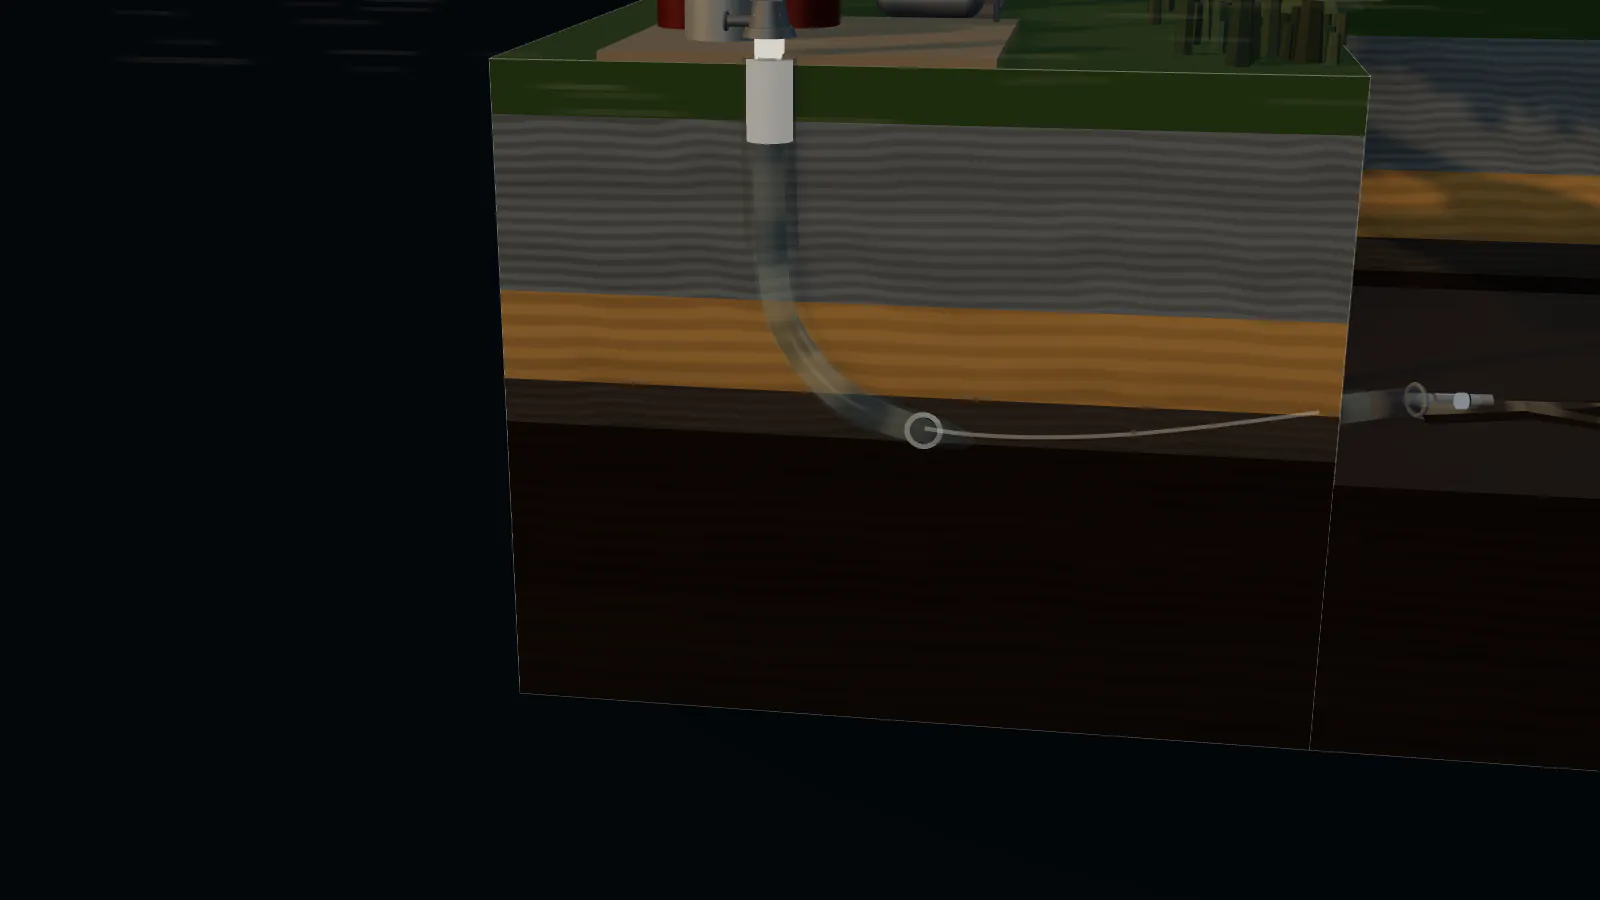
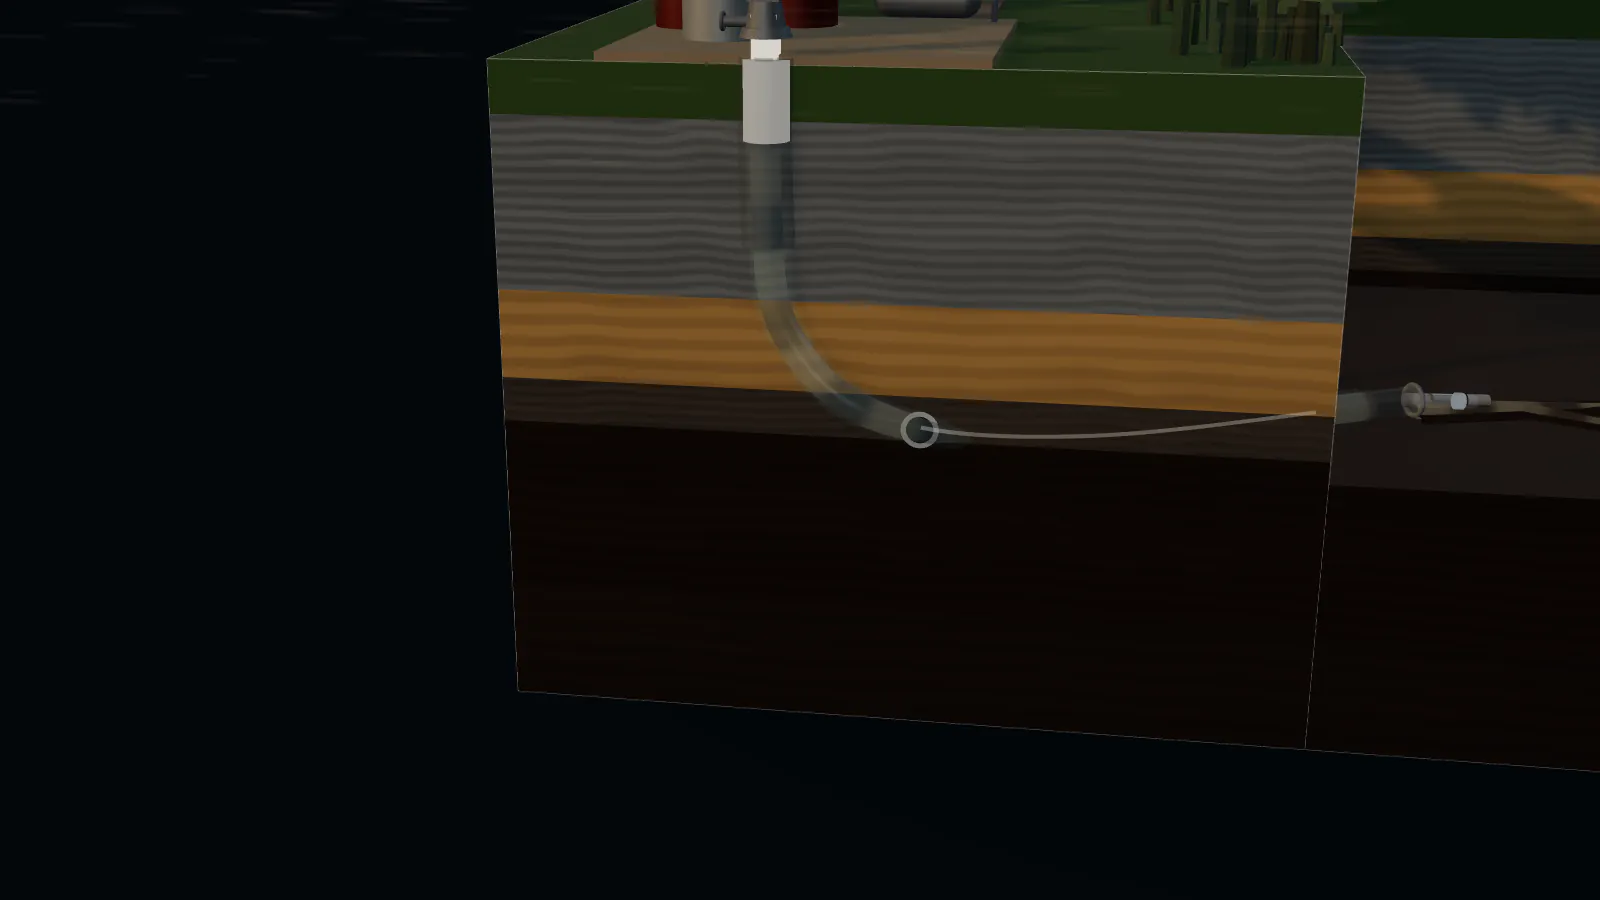
fix(world): wind hugs the ground, shorter and quieter, length varies stroke to stroke; stills regenerated

diff --git a/src/world/wind.js b/src/world/wind.js
@@ -10,7 +10,7 @@ export function buildWind({ count = 300, tier = 'high' } = {}) {
   // Streaks, not tiles (round 3: 0.16 x 0.035 additive bars read as confetti over grass and rock): long thin planes
   // with a comet-tail alpha, NORMAL blending so the sand -> ember ramp shows over bright surfaces, spawned only in
   // the air over the lease (pad + road + the near grass), never in front of the cut faces.
-  const geom = new THREE.PlaneGeometry(0.9, 0.022);
+  const geom = new THREE.PlaneGeometry(0.55, 0.018);
   const mat = new THREE.MeshBasicMaterial({ color: '#ffffff', transparent: true, depthWrite: false, blending: THREE.NormalBlending, toneMapped: false, side: THREE.DoubleSide });
   const uniforms = { uTime: { value: 0 }, uWind: { value: 0 }, uCamY: { value: 10 }, uPointer: { value: new THREE.Vector3(0, -99, 0) }, uSand: { value: new THREE.Color('#e8dcc8') }, uEmber: { value: new THREE.Color('#f27622') } };
   mat.customProgramCacheKey = () => 'wind-motes';
@@ -42,7 +42,7 @@ export function buildWind({ count = 300, tier = 'high' } = {}) {
           vA = edge * clamp(uWind * 1.4, 0.0, 1.0) * (0.35 + 0.65 * aSeed.y) * smoothstep(-0.5, 2.5, uCamY);
           vY = wp.y;
           // orient the stroke along the wind (x) with a little tilt
-          vec3 p = position; p.x *= (0.5 + 0.7 * aSeed.y) * (0.6 + 0.4 * uWind); // length tracks speed (≤ ~1.1 units)
+          vec3 p = position; p.x *= (0.45 + 0.95 * aSeed.y) * (0.6 + 0.4 * uWind); // length varies stroke to stroke so they never read as ruled speed lines
           vU = uv.x;
           transformed = wp + p; // strokes are pre-oriented planes; parent handles nothing else
         }`);
@@ -52,7 +52,7 @@ export function buildWind({ count = 300, tier = 'high' } = {}) {
         float ramp = smoothstep(-0.2, 0.9, vY);      // sand at the ground, ember as it lifts
         float tail = smoothstep(0.0, 0.35, vU) * (1.0 - smoothstep(0.75, 1.0, vU)); // comet tail
         diffuseColor.rgb = mix(uSand, uEmber, ramp * 0.7);
-        diffuseColor.a = vA * 0.5 * tail;`);
+        diffuseColor.a = vA * 0.34 * tail;`);
   };
   const mesh = new THREE.InstancedMesh(geom, mat, Math.max(1, count));
   mesh.name = 'wind-motes';
@@ -67,7 +67,7 @@ export function buildWind({ count = 300, tier = 'high' } = {}) {
     dummy.rotation.set(0, 0, 0); // all strokes parallel to the -x flow
     dummy.updateMatrix();
     mesh.setMatrixAt(i, dummy.matrix);
-    seeds[i * 3] = rnd(); seeds[i * 3 + 1] = rnd(); seeds[i * 3 + 2] = 0.35 + rnd() * 1.4;
+    seeds[i * 3] = rnd(); seeds[i * 3 + 1] = rnd(); seeds[i * 3 + 2] = 0.22 + rnd() * 0.95; // hug the ground: wind over a lease, not bars in mid-air
   }
   mesh.count = count;
   mesh.instanceMatrix.needsUpdate = true;
